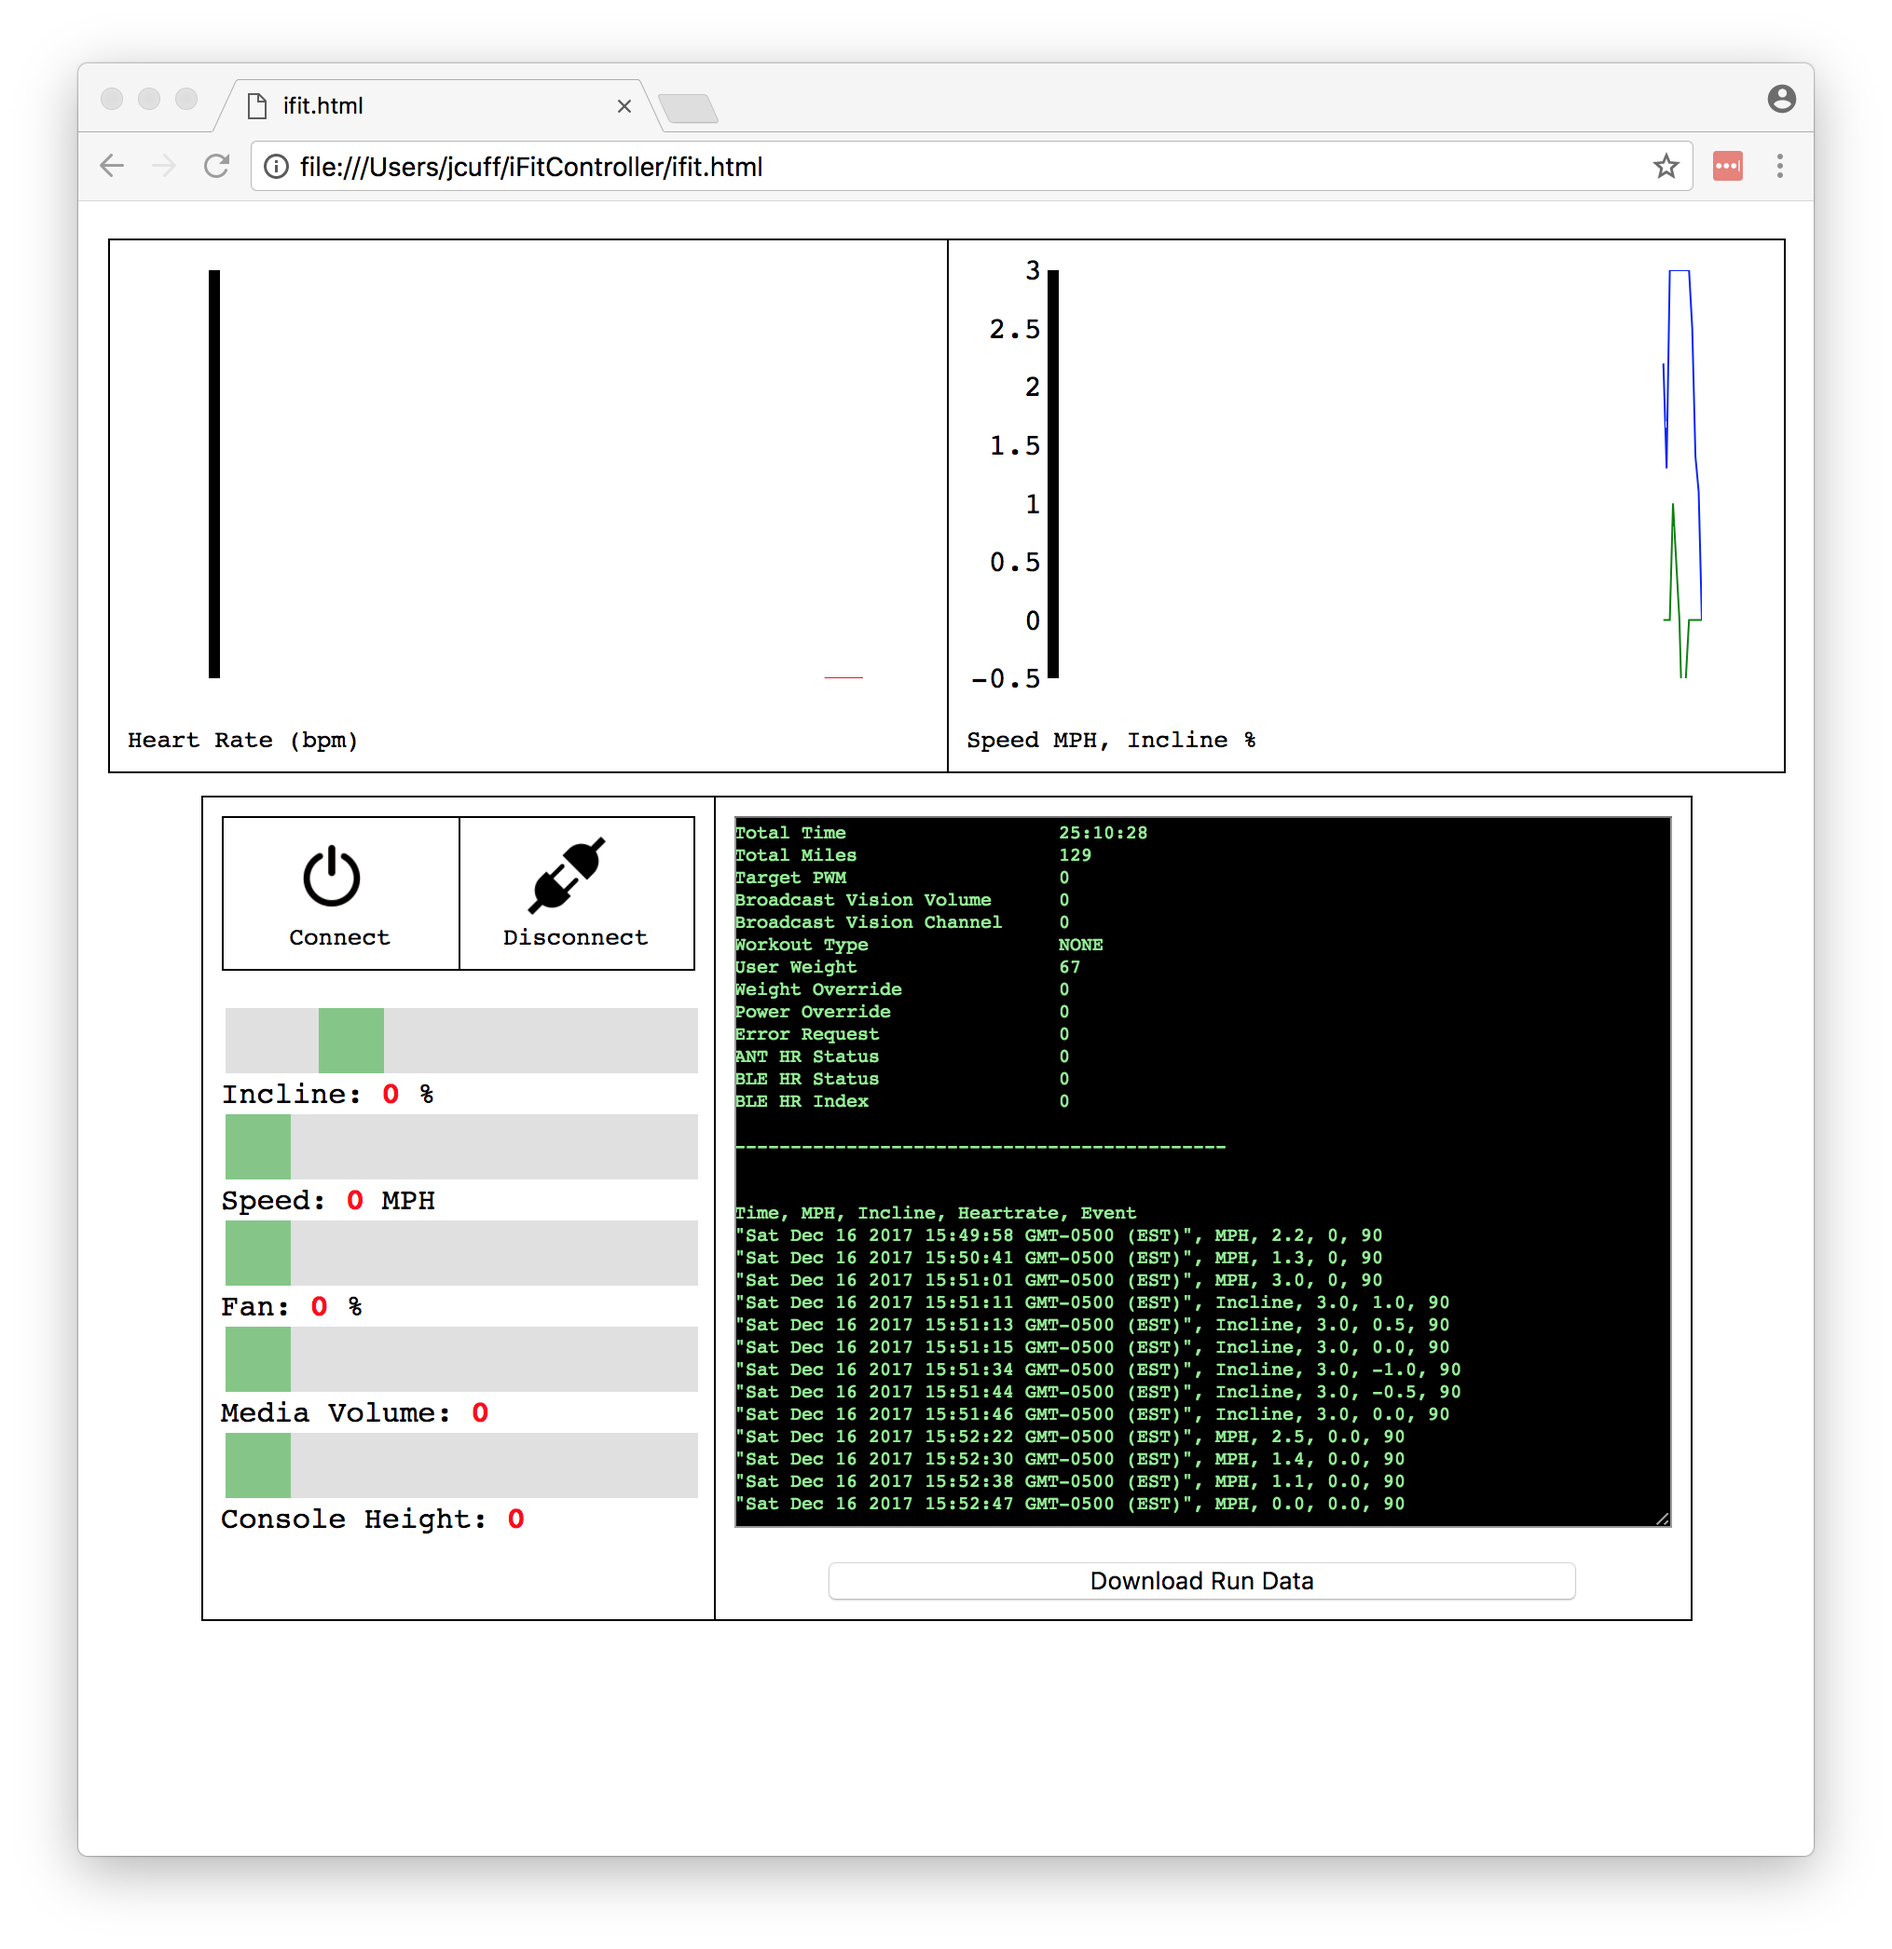
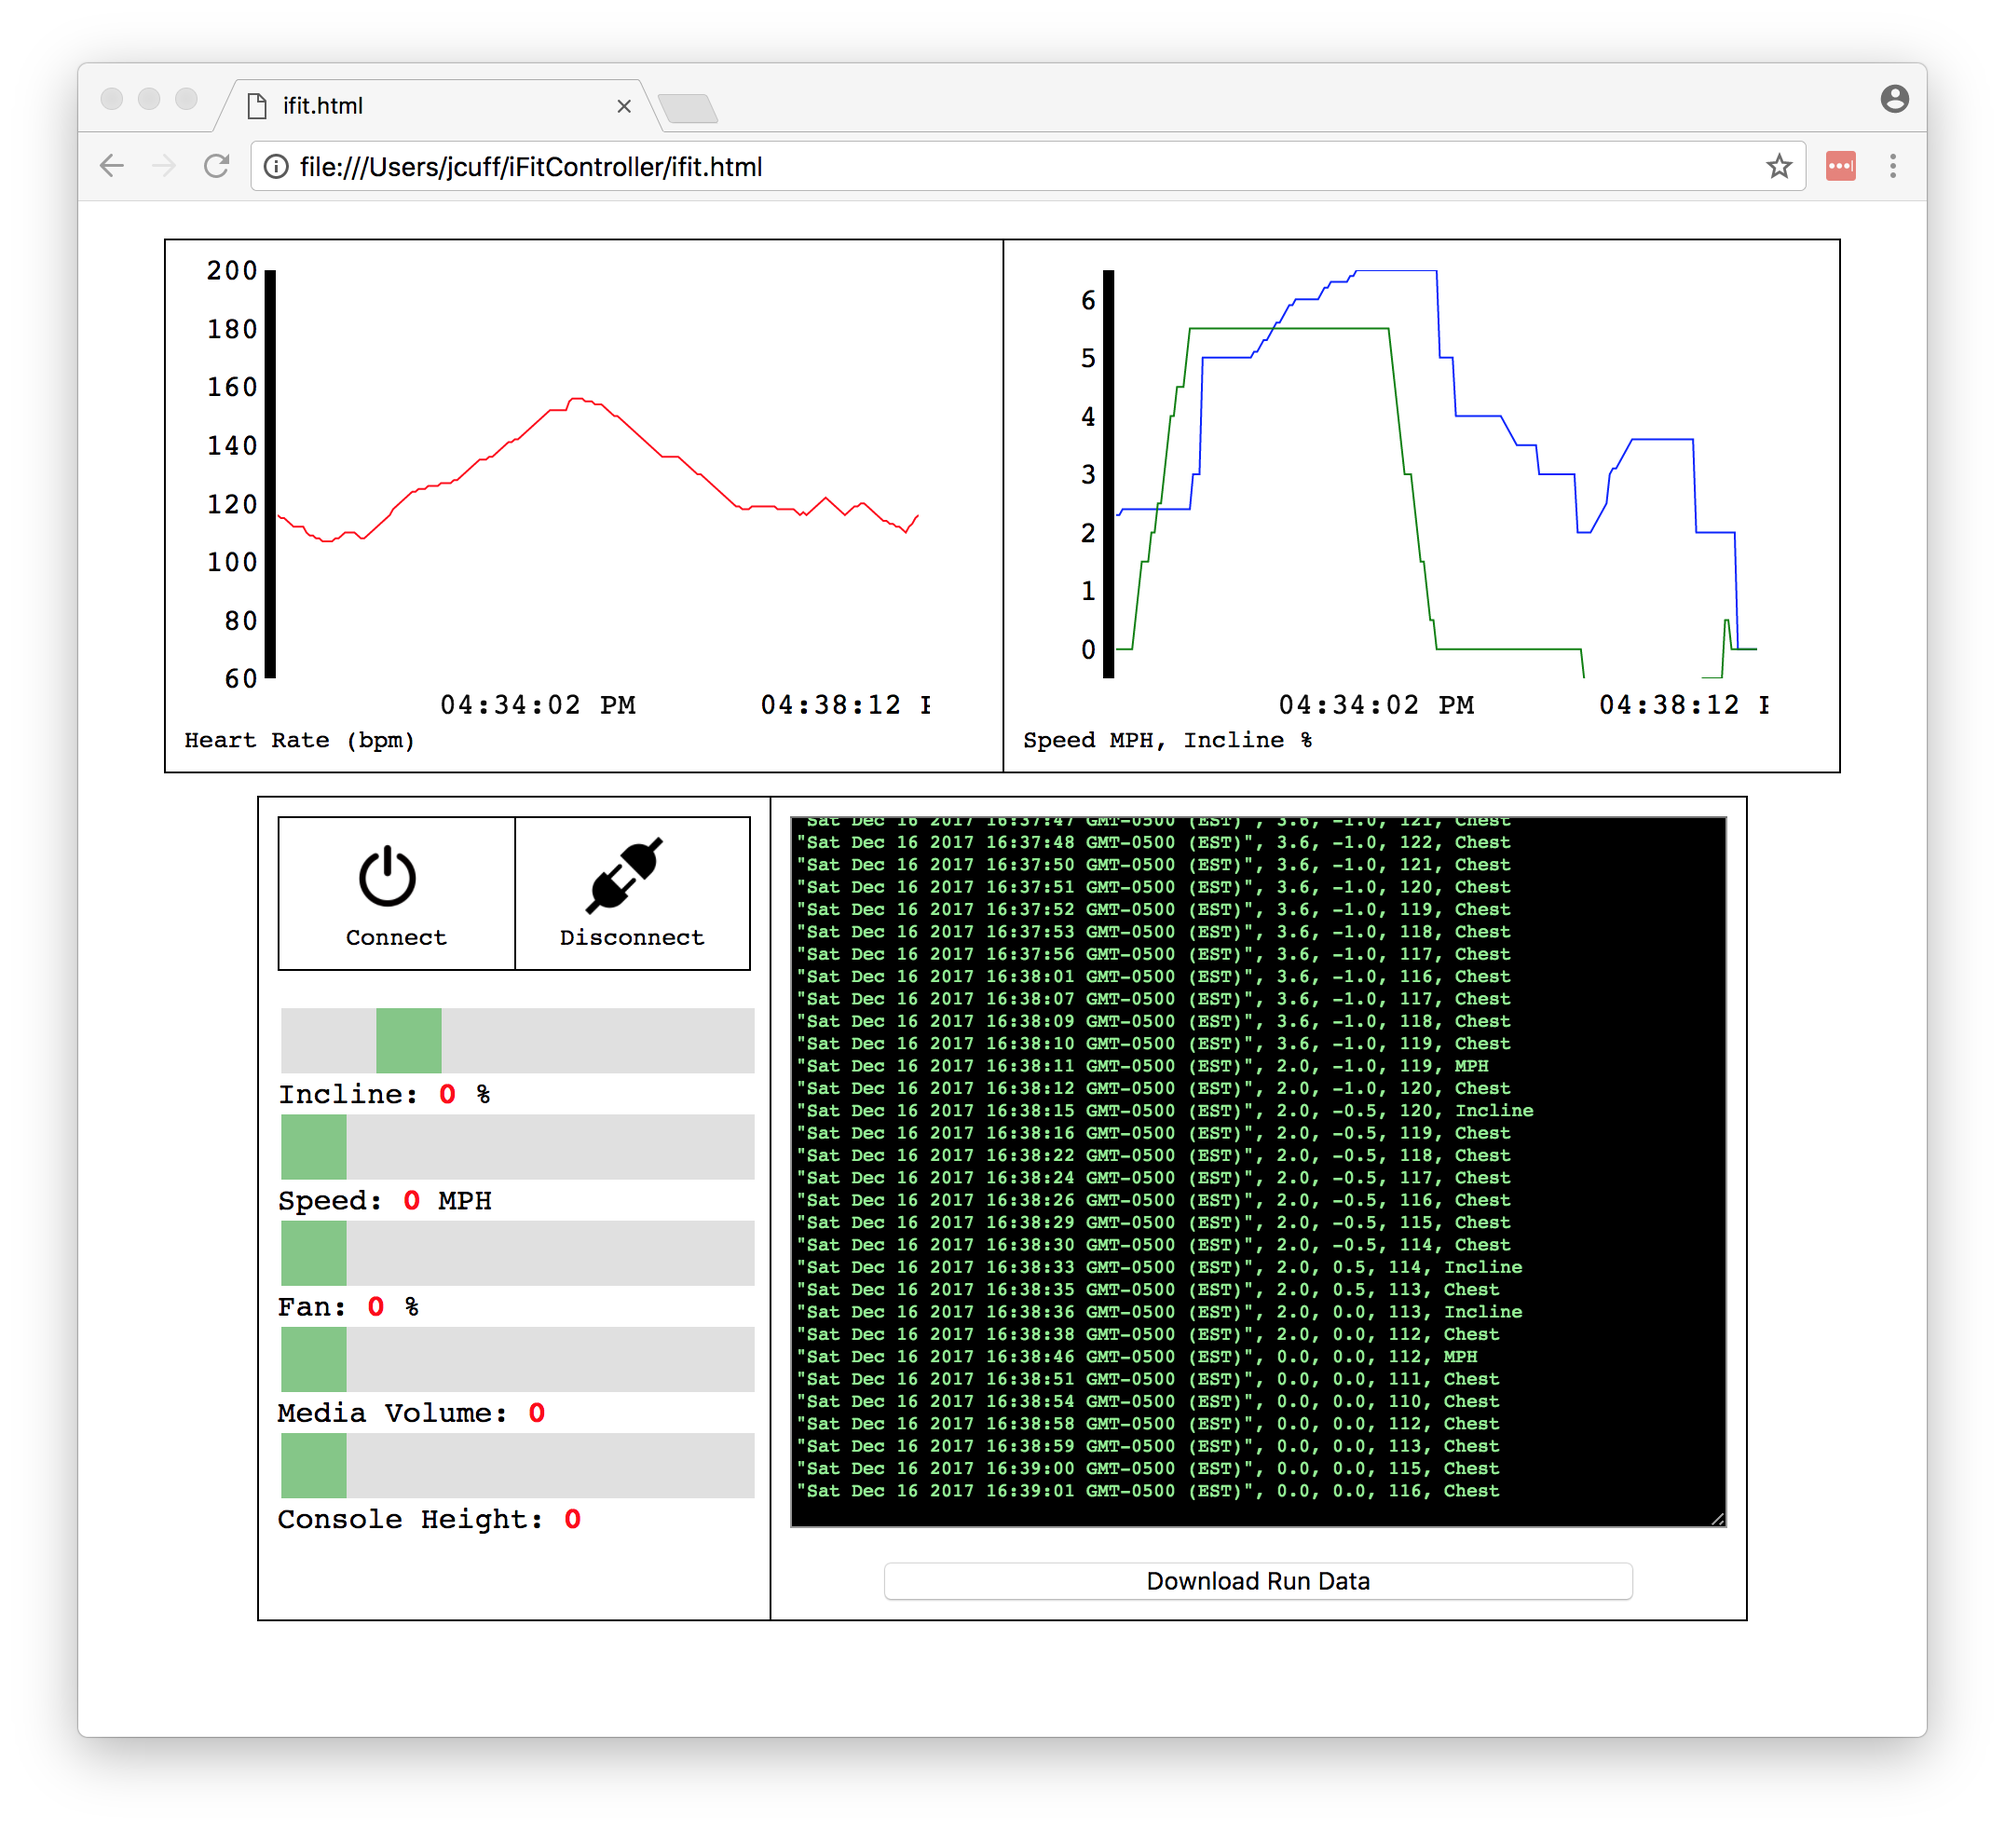
millisecond bug, was missing events, fixed, and updated screenie with real data and excel format example

diff --git a/js/ifit.js b/js/ifit.js
@@ -131,7 +131,7 @@ var currentdate = new Date().toLocaleString();
 
   var mph = 0;
   var incline = 0;
-  var heart = 90;
+  var heart = 0;
   var outmessage = "";
 
 
@@ -146,7 +146,8 @@ var heartChartData = [ {label: "heart", values: []} ];
 var speedinclineChartInstance = $('#myspeedinclineChart').epoch({
 		type: 'time.line',
 		historySize: 200,
- 	        ticks: { time: 50, right: 5, left: 10 },
+		range: [-3,12],
+ 	        ticks: { time: 100, right: 5, left: 10 },
 		windowSize: 200,
 		axes: ['left', 'bottom'],
 		data: speedinclineChartData });
@@ -154,7 +155,8 @@ var speedinclineChartInstance = $('#myspeedinclineChart').epoch({
 var heartChartInstance = $('#myheartChart').epoch({
                 type: 'time.line',
                 historySize: 200,
-                ticks: { time: 50, right: 5, left: 10 },
+		range: [60,200],
+                ticks: { time: 100, right: 5, left: 10 },
                 windowSize: 200,
                 axes: ['left', 'bottom'],
                 data: heartChartData });
@@ -187,8 +189,6 @@ var seconds = Math.round(d.getTime()/1000);
           {time: seconds, y: heart}
     ]);
 */
-
-
 // GRAPH test
 
       // first packet is magic - store it, don't update graph
@@ -211,7 +211,7 @@ var seconds = Math.round(d.getTime()/1000);
 	
           if (evt.data != '{ }') {
               var d = new Date();
-              var seconds = Math.round(d.getTime()/1000);
+              var seconds = Math.round(d.getTime());
 
 	      var donethis=0;
 	      var thisevent = "";
@@ -222,6 +222,7 @@ var seconds = Math.round(d.getTime()/1000);
               if (!(seconds in timehash)) {
               
 	        if (key == "Chest Pulse"){ 
+		     if (value != 0){
 			heart = value;
                         heartChartData[0].values.push({time: seconds, y: heart});
 			speedinclineChartData[0].values.push({time: seconds, y: mph});
@@ -229,15 +230,16 @@ var seconds = Math.round(d.getTime()/1000);
 		        thisevent = "Chest";	
 		
                         heartChartInstance.push ([ 
-                                {time: seconds, y: heart}
+                                {time: (seconds/1000), y: heart}
                         ]);
                         speedinclineChartInstance.push ([
-                                {time: seconds, y: mph},
-                                {time: seconds, y: incline}
+                                {time: (seconds/1000), y: mph},
+                                {time: (seconds/1000), y: incline}
                         ]);
 
                         $('#ConsoleText').append(outmessage = sprintf("\"%s\", %s, %s, %s, %s\n", Date(seconds*1000), thisevent, mph, incline, heart ));
-                        csvOut = csvOut + sprintf("\"%s\", %s, %s, %s, %s\n", Date(seconds*1000), mph, incline, heart,thisevent );
+                        csvOut = csvOut + sprintf("\"%s\", %s, %s, %s, %s\n", Date(seconds), mph, incline, heart,thisevent );
+		      }
 	         };
 
 
@@ -249,14 +251,14 @@ var seconds = Math.round(d.getTime()/1000);
 			thisevent = "MPH";
 
                         heartChartInstance.push ([ 
-                                {time: seconds, y: heart}
+                                {time: (seconds/1000), y: heart}
                         ]);
 	                speedinclineChartInstance.push ([
-                                {time: seconds, y: mph},
-                                {time: seconds, y: incline}
+                                {time: (seconds/1000), y: mph},
+                                {time: (seconds/1000), y: incline}
                         ]);
 	                $('#ConsoleText').append(outmessage = sprintf("\"%s\", %s, %s, %s, %s\n", Date(seconds*1000), thisevent, mph, incline, heart ));
-                        csvOut = csvOut + sprintf("\"%s\", %s, %s, %s, %s\n", Date(seconds*1000), mph, incline, heart,thisevent );
+                        csvOut = csvOut + sprintf("\"%s\", %s, %s, %s, %s\n", Date(seconds), mph, incline, heart,thisevent );
 		      };
 
 
@@ -268,15 +270,15 @@ var seconds = Math.round(d.getTime()/1000);
 			thisevent = "Incline";
 
 		        heartChartInstance.push ([ 
-                                {time: seconds, y: heart}
+                                {time: (seconds/1000), y: heart}
                         ]);
 
 			speedinclineChartInstance.push ([
-                                {time: seconds, y: mph},
-                                {time: seconds, y: incline}
+                                {time: (seconds/1000), y: mph},
+                                {time: (seconds/1000), y: incline}
                         ]);
                         $('#ConsoleText').append(outmessage = sprintf("\"%s\", %s, %s, %s, %s\n", Date(seconds*1000), thisevent, mph, incline, heart ));
-                        csvOut = csvOut + sprintf("\"%s\", %s, %s, %s, %s\n", Date(seconds*1000), mph, incline, heart,thisevent );
+                        csvOut = csvOut + sprintf("\"%s\", %s, %s, %s, %s\n", Date(seconds), mph, incline, heart,thisevent );
 		       }
 
                       scroller();

diff --git a/README.md b/README.md
@@ -34,7 +34,9 @@ There's a Download Run Data button that will dump the events to a csv file so yo
 
 * Hat tip to Ventz! 
 
+### Examples:
 
 
 ![Alt text](images/screenie.png?raw=true "Screenie")
+![Alt text](images/screenieexcel.png?raw=true "Excel Screenie")
 
